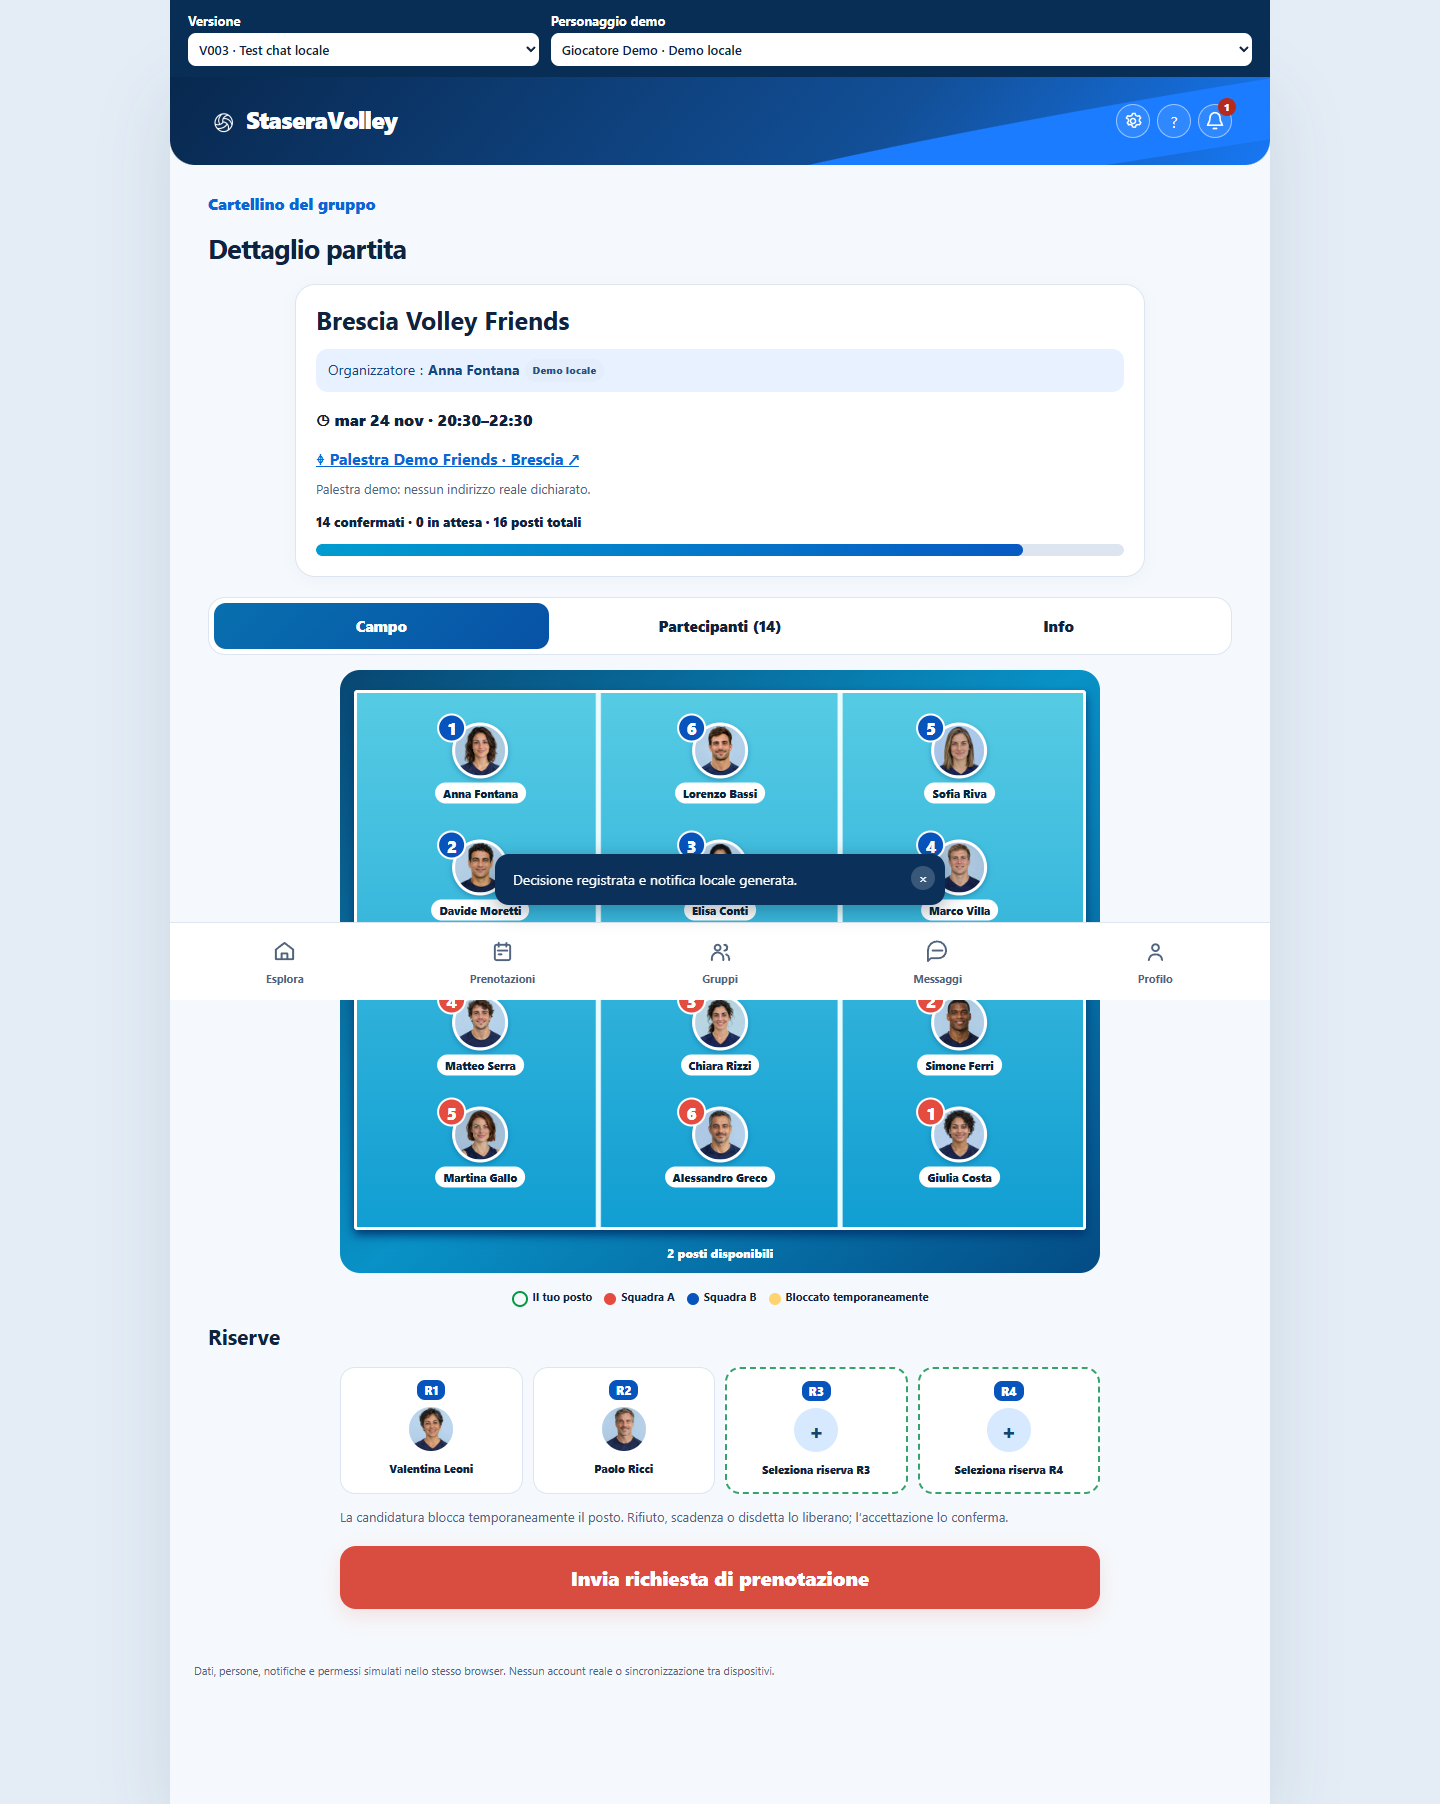
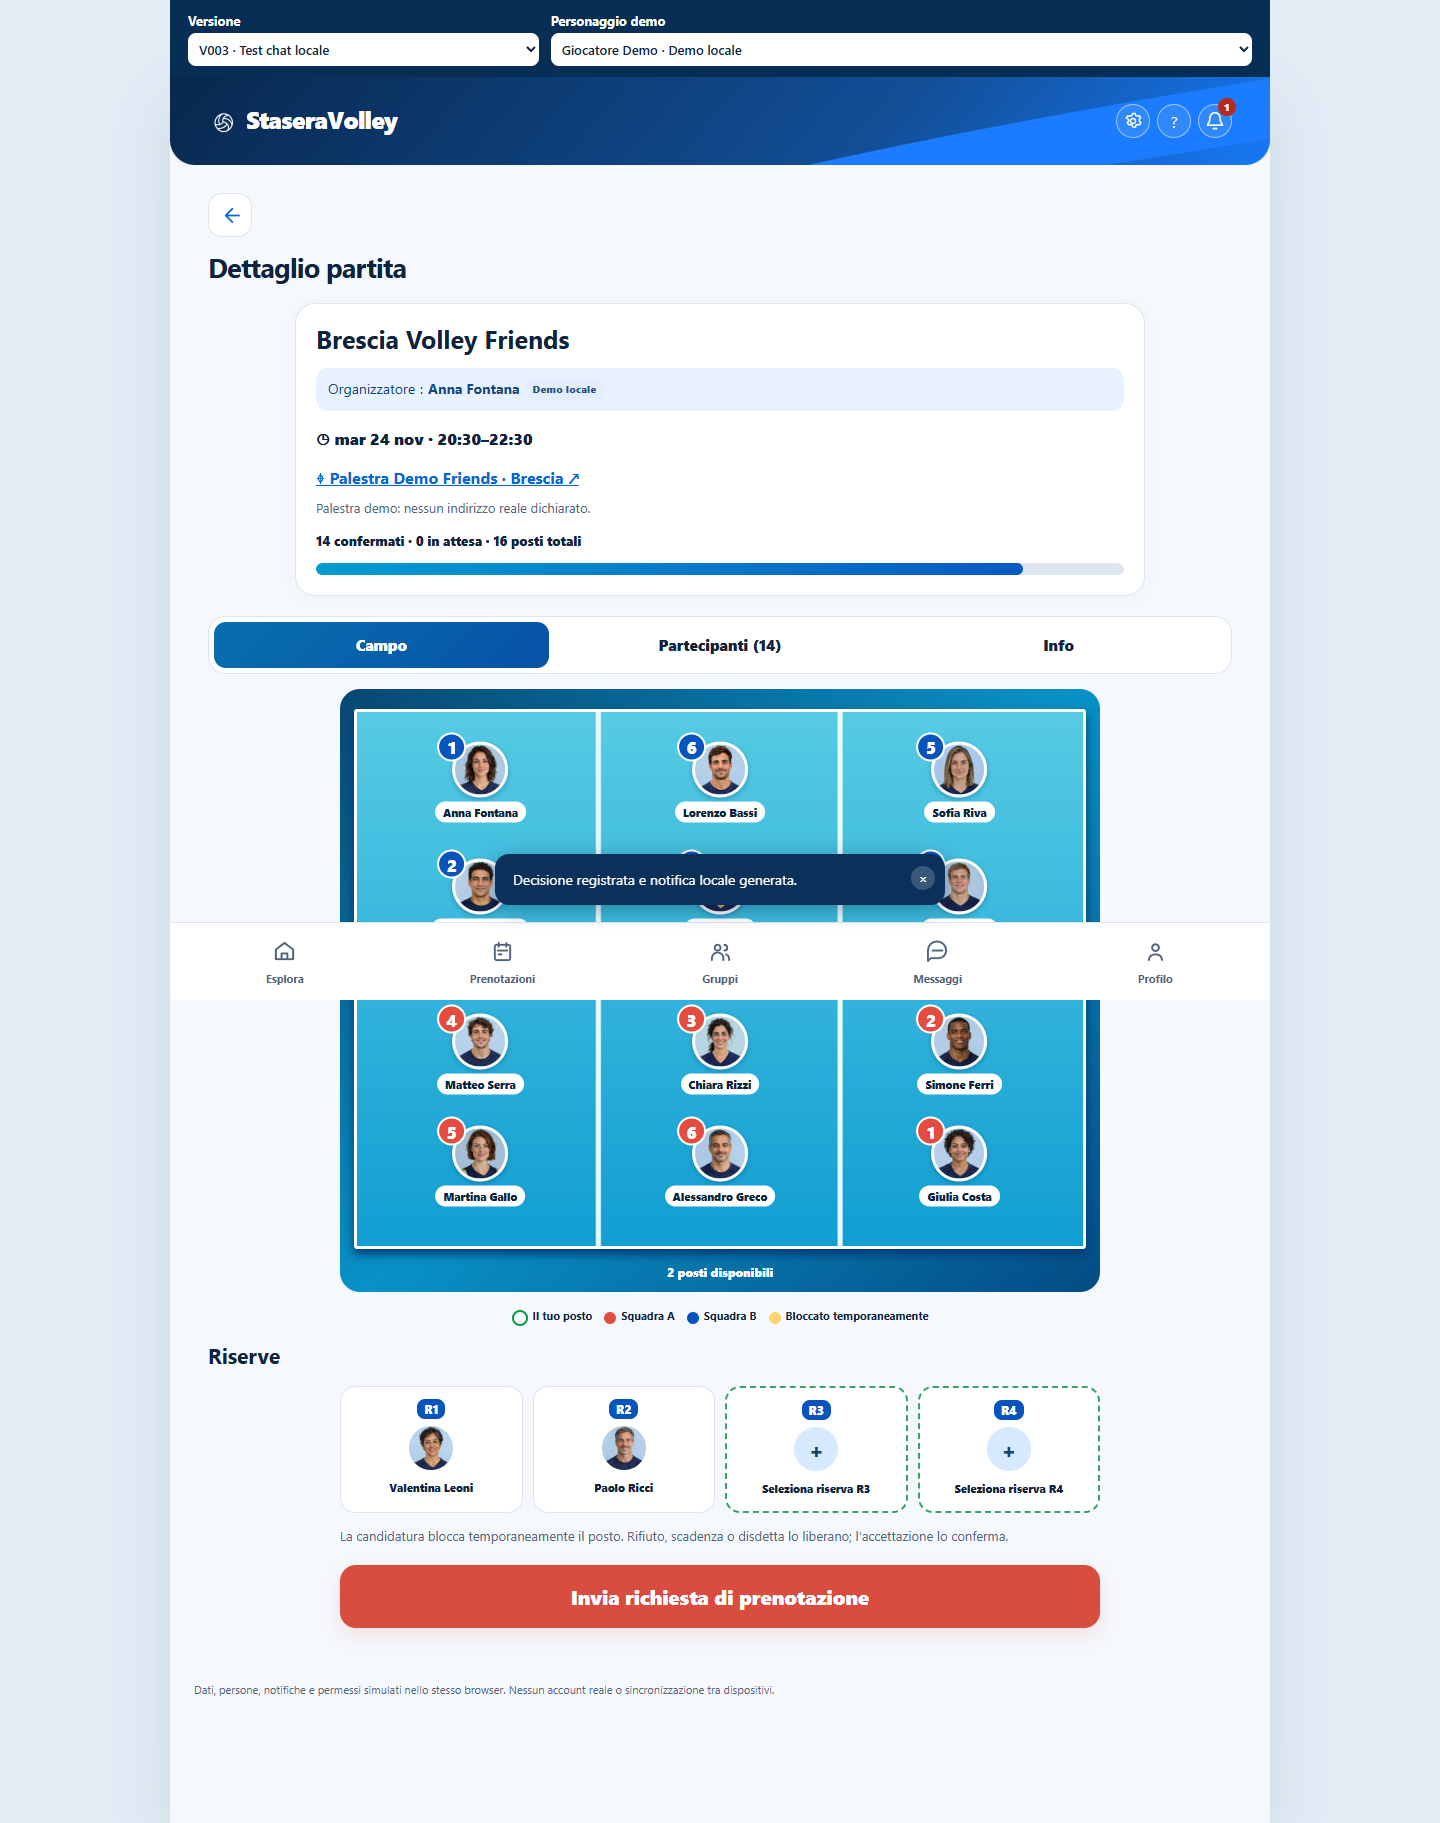
Apre le serate di Esplora direttamente nella scheda Info V003

diff --git a/prototypes/staseravolley-fabio/v003/app.js b/prototypes/staseravolley-fabio/v003/app.js
@@ -54,7 +54,7 @@ document.addEventListener('click',e=>{const target=e.target.closest('[data-actio
  case 'chat-emoji':{const input=$('#chatText');input.value=(input.value+target.dataset.emoji).slice(0,2000);ui.chatDraft=input.value;input.focus();break;}
  case 'open-group':if(memberOf(s,settings.actorId,id)||canManage(s,settings.actorId,id))perform('READ_GROUP_NEWS',{groupId:id});go('group',{groupId:id});break;
  case 'group-requests':go('requests',{requestGroup:id});break;
- case 'open-event':{const event=s.matches[id];if(event)go('group',{groupId:event.groupId,eventId:id});break;}
+ case 'open-event':if(s.matches[id])go('match',{matchId:id,matchTab:'info'});break;
  case 'open-match':openMatch(id);break;
  case 'open-profile':go('profile',{profileId:id});break;
  case 'seat-profile':go('profile',{profileId:person});break;

diff --git a/prototypes/staseravolley-fabio/v003/README.md b/prototypes/staseravolley-fabio/v003/README.md
@@ -86,3 +86,7 @@ La campanella apre/chiude Notifiche: il secondo tocco torna alla pagina e alla p
 Nuova chat usa fumetto e matita. Impostazioni, Richieste e Notifiche hanno una freccia senza testo con etichetta accessibile e possono essere richiuse premendo di nuovo il relativo pulsante in alto. La schermata Esplora le serate offre elenco/mappa con filtri condivisi, loghi e raggruppamento per località. Con zoom ravvicinato appaiono orario, quota e posti; il tocco segue lo stesso percorso dell’elenco. Le coordinate rimangono indicative della località, non palestre inventate.
 
 Le notifiche non lette hanno fondo azzurro tenue, bordo e punto blu più visibili. Nel profilo sono presenti medie, stelle, affidabilità, tecnica e distribuzione dei voti realmente ricevuti nelle valutazioni delle partite concluse; nessun voto demo casuale viene inventato. In assenza di valutazioni si mostra lo stato vuoto. Test dedicato: tests/polish.mjs. Questa consegna modifica e pubblica esclusivamente V003; V002 resta invariata.
+
+## Apertura delle serate da Esplora — V003
+
+Toccando una serata nell’elenco, nel popup della mappa o nelle schede a zoom ravvicinato si apre direttamente il dettaglio della partita selezionata, con la scheda Info attiva. Non si passa dal cartellino del gruppo e non viene creata alcuna prenotazione. Il gruppo rimane accessibile dal collegamento dedicato e dalla directory. Questa regola sostituisce il precedente percorso Esplora → gruppo → partita soltanto nella V003.
